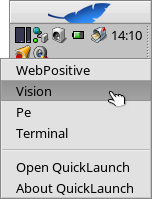
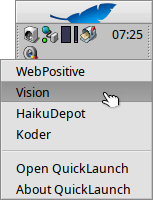
Update ReadMe + screenshots

diff --git a/ReadMe.html b/ReadMe.html
@@ -107,11 +107,11 @@ for <a href="https://www.haiku-os.org">Haiku</a><br />
 <img src="./images/quicklaunch.png" alt="QuickLaunch windows" />
 </div>
 <p>In the main window the context menu was invoked via a right-click.<br />
-The first item adds the selected app to your favorites which will be shown whenever the search field is empty.<br />
-The second item adds the app to the ignore list (works also with a drag &amp; drop into the ignore list of the setup window). More on that in the setup options discussed below.<br />
-The final item opens the app's location in a Tracker window. The same can be achieved by pressing <span class="key">CTRL</span>+<span class="key">RETURN</span>.</p>
+The first item adds the selected app to your favorites which will be shown whenever the search field is empty (key-combo: <span class="key">ALT</span>+<span class="key">F</span>).<br />
+The second item adds the app to the ignore list (key-combo: <span class="key">ALT</span>+<span class="key">I</span>; works also with a drag &amp; drop into the ignore list of the setup window). More on that in the setup options discussed below.<br />
+The final item opens the app's location in a Tracker window (key-combo: <span class="key">ALT</span>+<span class="key">O</span> or <span class="key">CTRL</span>+<span class="key">RETURN</span>).</p>
 
-<p>The <span class="button">Help</span> button or pressing <span class="key">ALT</span>+<span class="key">H</span> opens this ReadMe in the browser.</p>
+<p>The <span class="button">Help</span> button, or pressing <span class="key">ALT</span>+<span class="key">H</span>, opens this ReadMe in the browser.</p>
 
 <h2>
 <a href="#"><img src="images/up.png" style="border:none;float:right" alt="index" /></a>
@@ -145,8 +145,6 @@ A right-click on it also offers quick access to your favorites.</p>
 <li><p><span class="menu">Show the path to an application</span> —  interesting when you have several copies of an application.</p></li>
 <li><p><span class="menu">Search from start of application name</span> —  when unchecked, finds all applications with the search term anywhere in their name, not only with those initial letters. Same as starting a search with a '*' as first letter.</p></li>
 <li><p><span class="menu">Remember last search term</span> — starts QuickLaunch with the previous search.</p></li>
-<li><p><span class="menu">Launch applications with a single click</span> —  instead of requiring the usual double-click.</p></li>
-<li><p><span class="menu">Window always on top</span> — the window floats modally in front of all others. Useful if you start a few apps after another and don't want to lose QuickLauch under the newly opening windows.</p></li>
 <li><p><span class="menu">Ignore these files &amp; folders (and their subfolders)</span> that you can add and remove from the list with the buttons at the bottom.<br />
 You can also right-click an app in the main window's result list to add that specific app to the ignore list or drag &amp; drop any application or folder from Tracker or an app from QuickLaunch's main window into it.<br />
 <span class="key">DEL</span> removes the selected items from the ignore list.</p>
@@ -158,16 +156,17 @@ You can also right-click an app in the main window's result list to add that spe
 <a id="tips" name="tips">Tips &amp; Tricks</a></h2>
 <ul>
 <li><p>Assign a keycombo to QuickLaunch in Haiku's Shortcuts preferences, like <span class="key">OPT</span>+<span class="key">SPACEBAR</span>, for even quicker QuickLaunching apps.</p></li>
-<li><p>Enter '*' to show a list of all installed applications.</p></li>
+<li><p>If you don't want to deactivate the option <span class="menu">Search from start of application name</span> in general, but just once in a while would like to search within an app name, you can use a '<tt>*</tt>' as a wildcard. E.g. "<tt>*player</tt>" will find '<tt>MediaPlayer</tt>' and '<tt>MidiPlayer</tt>'.</p></li>
 <li><p><span class="key">SHIFT</span>+<span class="key">RETURN</span> will keep the QuickLaunch window open after launching the app.</p></li>
-<li><p><span class="key">CTRL</span>+<span class="key">RETURN</span> will open an app's location in Tracker instead of launching it.</p></li>
-<li><p>These folders are ignored by default:<br />
-<span style="font-family: monospace">B_SYSTEM_ADDONS_DIRECTORY and B_TRASH_DIRECTORY</span><br />
+<li><p>These two folders are ignored by default: <span style="font-family: monospace">/system/add-ons/</span> and <span style="font-family: monospace">Trash</span><br />
 In other words, applications in Trash are ignored, as well as add-ons.<br />
-B_SYSTEM_BIN_DIRECTORY used to be ignored, but since especially ported software often ends up in the /bin folder, that is a bad idea. You'll have to remove unwanted commandline apps manually now, i.e. via <span class="menu">Add to ignore list</span> of the context menu.</p></li>
-<li><p>There are two reasons why an application may not be found by QuickLaunch:</p>
-<p>- The application isn't located on a BFS partition or the BFS partition wasn't formatted to support queries.<br />
-- The application lacks the proper attribute <span style="font-family: monospace">BEOS:APP_SIG</span>. In that case, ask the app's developer to add it, or try to apply the following tip.</p></li>
+<span style="font-family: monospace">/system/bin/</span> used to be ignored, but since especially ported software often ends up in the /bin folder, that is a bad idea. You'll have to remove unwanted commandline apps manually now, i.e. via <span class="menu">Add to ignore list</span> of the context menu.</p></li>
+<li>There are two reasons why an application may not be found by QuickLaunch:
+<ol>
+<li><p>The application isn't located on a BFS partition or the BFS partition wasn't formatted to support queries.</p></li>
+<li><p>The application lacks the proper attribute <span style="font-family: monospace">BEOS:APP_SIG</span>. In that case, ask the app's developer to add it, or try to apply the following tip.</p></li>
+</ol>
+</li>
 <li><p>If you happen to use an app or a script that doesn't show up in QuickLaunch (and is in a writable location), you can add these atrributes in Terminal to the app or script:<br />
 <span style="font-family: monospace">addattr BEOS:TYPE application/x-vnd.Be-elfexecutable /path/to/your/app-or-script<br />
 addattr BEOS:APP_SIG  application/x-vnd.anything-unique /path/to/your/app-or-script</span>
@@ -183,15 +182,16 @@ You can also build it yourself using <a href="https://github.com/haikuports">Hai
 <h2>
 <a href="#"><img src="images/up.png" style="border:none;float:right" alt="index" /></a>
 <a id="bugs_feedback" name="bugs_feedback">Bugreports &amp; Feedback</a></h2>
-<p>Please use GitHub's <a href="https://github.com/humdingerb/quicklaunch/issues">issue tracker</a> if you experience unusual difficulties or email your general feedback to <a href="mailto:humdingerb@gmail.com">me</a>. Also, email me if you'd like to provide more localizations.</p>
+<p>Please use GitHub's <a href="https://github.com/humdingerb/quicklaunch/issues">issue tracker</a> if you experience unusual difficulties or email your general feedback to <a href="mailto:humdingerb@gmail.com">me</a>.</p>
 <p>I'd be very grateful for further translations for QuickLaunch and other applications at <a href="https://i18n.kacperkasper.pl/">Polyglot</a>.</p>
 <h2>
 <a href="#"><img src="images/up.png" style="border:none;float:right" alt="index" /></a>
 <a id="thanks" name="thanks">Thanks</a></h2>
 <p>	I have to thank DarkWyrm for some helpful hints and for some of the	code I re-used from his RunProgram app and his EscapeCancelFilter.<br />
 Equally useful was Robert Polic's EZLauncher of BeNewsletter 3-46 and the help I got on the #haiku IRC channel.<br />
-AnEvilYak provided valuable hints and code when I got stuck.<br />
-Finally, thanks to everyone that contributed translations and bug reports for QuickLaunch.</p>
+AnEvilYak provided valuable hints and code when I got stuck.</p>
+<p>Finally, thanks to everyone that contributed bug reports and translations for QuickLaunch:<br />
+Alexey Lugin&nbsp;(uk), Briseur&nbsp;(fr), deejam&nbsp;(sv), Floren&nbsp;(ro), Gabriele Baldassarre&nbsp;(it), KapiX&nbsp;(pl), Knezzen&nbsp;(sv), mazbrili&nbsp;(id), miqlas&nbsp;(hu), Murai Takashi&nbsp;(ja), no-act&nbsp;(nl), oco27&nbsp;(fr), Sergei Reznikov&nbsp;(ru), unspacyar&nbsp;(es), Victor Domingos&nbsp;(pt)</p>
 
 <h2>
 <a href="#"><img src="images/up.png" style="border:none;float:right" alt="index" /></a>
@@ -199,10 +199,12 @@ Finally, thanks to everyone that contributed translations and bug reports for Qu
 <p><b>1.3</b> - <i>:</i></p>
 <ul>
 <li>Add option to look for applications with the search term anywhere in their name, not just as their initial letters. Thanks to Kevin Adams for the patch.</li>
-<li>Support localized application names (has to be activated in Locale preferences' 3rd tab).</li>
-<li>Remove "Wait for a second letter before searching". Supporting localized app names needed changes that removed the need to do a query for every entered character. Any previous gain in performance (if there ever was one) would be gone now.</li>
-<li>Remove '*' as a wildcard in application names. As we're not using a query anymore to filter appplications, and supporting wildcards is more trouble than it's worth.<br />
-Enter '*' to get a list of all installed applications.</li>
+<li>Remove "Wait for a second letter before searching". My tests on very slow systems showed that Haiku's queries should be fast enough for short turn-around times.</li>
+<li>Remove "Launch applications with a single click" and "Window always on top". These are now default behavior.</li>
+<li>Add ALT+O as key-combo to open an app's parent folder.</li>
+<li>Restore selection and scroll position when changing a setting that will alter the result list.</li>
+<li>Fix crash when Favorites are missing.</li>
+<li>Fix freeze when entering a "%" character.</li>
 </ul>
 
 <p><b>1.2</b> - <i>11-05-2017:</i></p>
